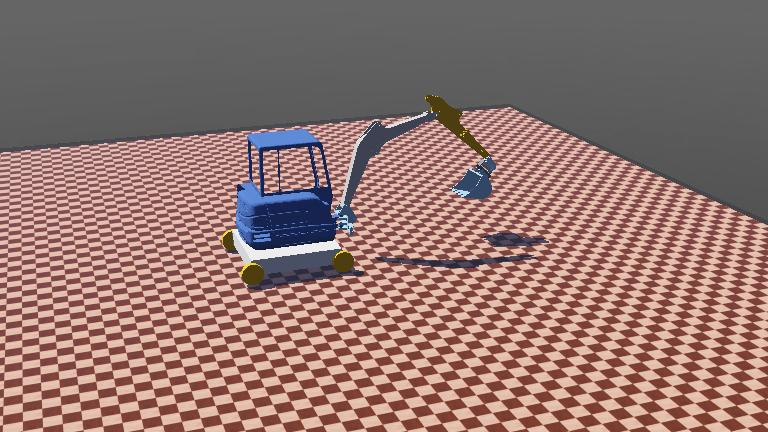
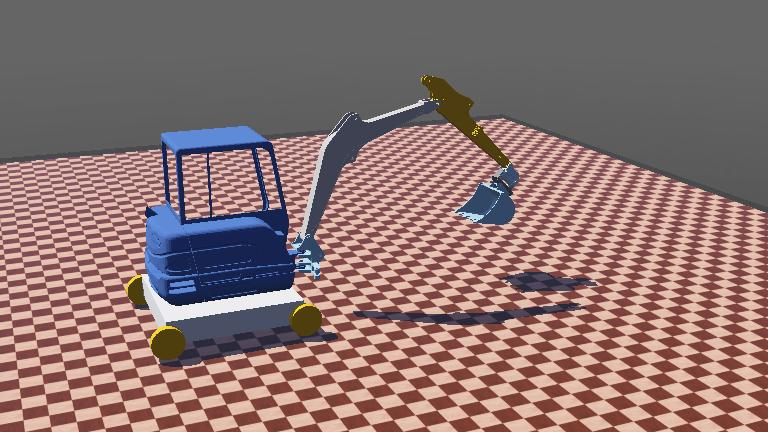
add: arm_connector and lower_arm control

diff --git a/controllers/obs_controller/obs_controller.py b/controllers/obs_controller/obs_controller.py
@@ -1,35 +1,42 @@
 import math
 from controller import Supervisor
 
+MAX_MOTOR_SPEED = 0.2
+
 # Create the Robot instance
 robot = Supervisor()
 
 # Get the time step of the current world
 timestep = int(robot.getBasicTimeStep())
 
+# List of names of the motors and sensors
+names = ["turret", "arm_connector", "lower_arm", "uppertolow", "scoop"]
+
 # Initialize motors for all wheels
-motors = [robot.getDevice(f"wheel{i}_motor") for i in range(1, 5)]
+wheel_motors = [robot.getDevice(f"wheel{i}_motor") for i in range(1, 5)]
 
-# Initialize turret motor and sensor
-turret_motor = robot.getDevice("turret_motor")
-turret_sensor = robot.getDevice("turret_sensor")
-
-# Enable the position sensor
-turret_sensor.enable(timestep)
+# Initialize motors and sensors for all joints as dictionaries
+motors = {name: robot.getDevice(f"{name}_motor") for name in names}
+sensors = {name: robot.getDevice(f"{name}_sensor") for name in names}
 
 # Set motors to velocity control mode
-for motor in motors:
+for wheel_motor in wheel_motors:
+    wheel_motor.setPosition(float("inf"))
+    wheel_motor.setVelocity(0.0)
+
+# Set motors to position and velocity control mode
+for motor in motors.values():
     motor.setPosition(float("inf"))
     motor.setVelocity(0.0)
 
-# Set turret motor to velocity control mode
-turret_motor.setPosition(float("inf"))
-turret_motor.setVelocity(0.0)
+# Enable the sensors
+for sensor in sensors.values():
+    sensor.enable(timestep)
 
 
-def run_all_motors(velocity):
-    for motor in motors:
-        motor.setVelocity(velocity)
+def run_all_wheels(velocity):
+    for wheel_motor in wheel_motors:
+        wheel_motor.setVelocity(velocity)
 
 
 # Function to calculate the shortest rotation direction and angle difference
@@ -46,19 +53,49 @@ def calculate_turret_movement(current_angle, target_angle):
 
 
 # Function to move turret to a specific angle in degrees
-def move_turret_to_angle(target_angle_degrees, turret_speed=0.2):
+def move_turret_to_angle(target_angle_degrees, turret_speed=MAX_MOTOR_SPEED):
     target_angle_radians = math.radians(
         target_angle_degrees
     )  # Convert target angle to radians
 
     # Get the current position of the turret
-    current_angle = turret_sensor.getValue()
+    current_angle = sensors["turret"].getValue()
 
     # Calculate the difference to the target position
     direction = calculate_turret_movement(current_angle, target_angle_radians)
 
     # move the turret to the target position
-    turret_motor.setVelocity(turret_speed * direction)
+    motors["turret"].setVelocity(turret_speed * direction)
+
+
+def move_arm_connector(
+    direction, min_position=-1.1, max_position=1.1, velocity=MAX_MOTOR_SPEED
+):
+    current_position = sensors["arm_connector"].getValue()
+
+    # Check if the motor is within the defined range
+    if min_position <= current_position <= max_position:
+        if direction == 0:
+            motors["arm_connector"].setVelocity(velocity)
+        elif direction == 1:
+            motors["arm_connector"].setVelocity(-velocity)
+    else:
+        motors["arm_connector"].setVelocity(0.0)
+
+
+def move_lower_arm(
+    direction, min_position=-0.27, max_position=0.27, velocity=MAX_MOTOR_SPEED
+):
+    current_position = sensors["lower_arm"].getValue()
+
+    # Check if the motor is within the defined range
+    if min_position <= current_position <= max_position:
+        if direction == 0:
+            motors["lower_arm"].setVelocity(velocity)
+        elif direction == 1:
+            motors["lower_arm"].setVelocity(-velocity)
+    else:
+        motors["lower_arm"].setVelocity(0.0)
 
 
 # Main loop:
@@ -66,18 +103,20 @@ start_time = robot.getTime()
 
 while robot.step(timestep) != -1:
     # Set velocity for the first 3 seconds, then stop
-    # duration = robot.getTime() - start_time
+    duration = robot.getTime() - start_time
 
     # if duration <= 3.0:
-    #     run_all_motors(1.0)
-    #     turret_motor.setVelocity(0.2)
+    # motors["arm_connector"].setVelocity(0.2)
+    # run_all_wheels(1.0)
+    # motors["turret"].setVelocity(0.2)
     # elif duration > 3.0 and duration < 5.0:
-    #     run_all_motors(0.0)
-    #     turret_motor.setVelocity(0.0)
+    # motors["arm_connector"].setVelocity(0.0)
+    # run_all_wheels(0.0)
+    # motors["turret"].setVelocity(0.0)
     # elif duration >= 5.0 and duration <= 8.0:
-    #     run_all_motors(-1.0)
+    #     run_all_wheelrs(-1.0)
     # elif duration > 8.0:
-    #     run_all_motors(0.0)
+    #     run_all_wheels(0.0)
 
-    move_turret_to_angle(300)
-    print(math.degrees(turret_sensor.getValue()))
+    move_lower_arm(1)
+    print(sensors["lower_arm"].getValue())
